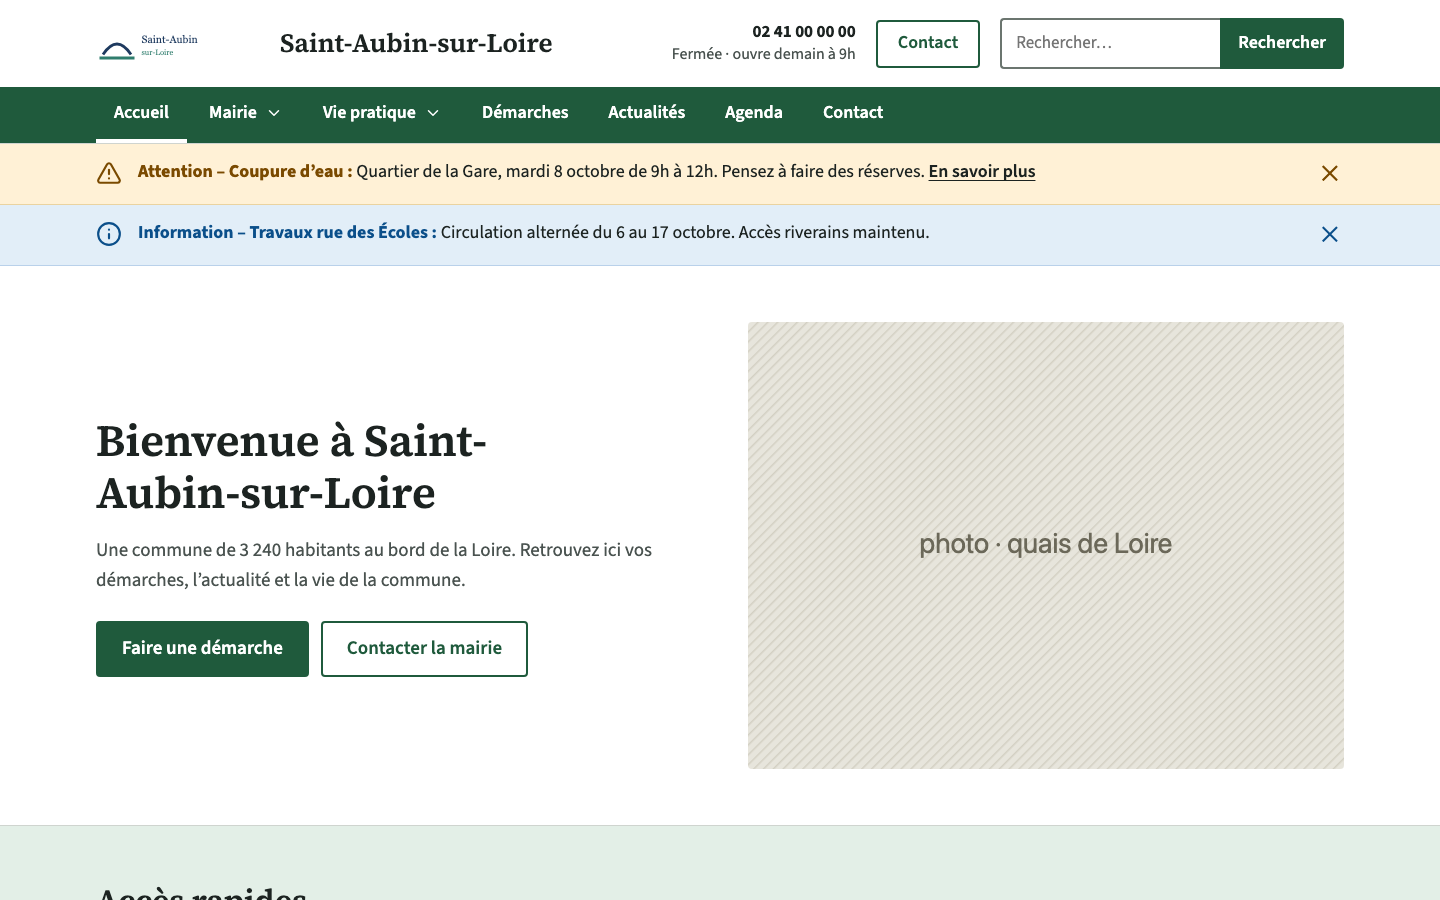
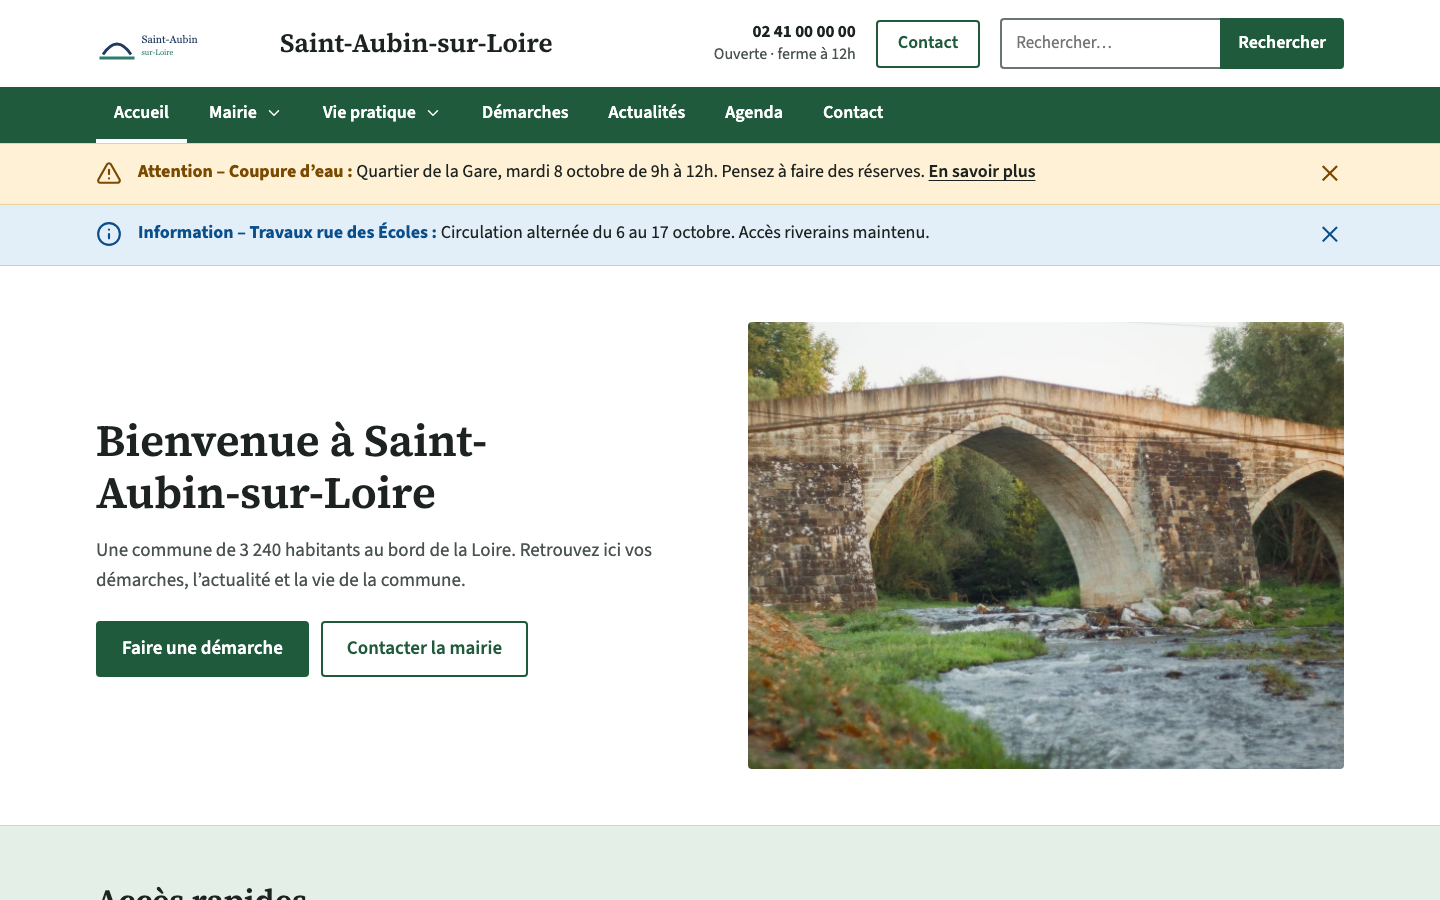
feat(site): vraies photos dans les captures des thèmes de communeo.fr (#315)
Les photos libres de droits des vidéos passent dans packages/fixtures/photos/, partagées par les
captures des thèmes (pages Thèmes, Accueil, Fonctionnalités) et des vidéos ; substituées au moment de
la capture seulement, les fixtures ne changent pas. Horloge fixée un mardi à 10 h : mairie « Ouverte ».

Claude-Session: https://claude.ai/code/session_01Nt9eDdGzjZFkF7eeL1ZaWD

Changed region(s): [[0.5, 0.3422, 0.9375, 0.8711], [0.4688, 0.0311, 0.5938, 0.0622]]

diff --git a/v2/videos/scripts/captures.ts b/v2/videos/scripts/captures.ts
@@ -10,7 +10,7 @@
  *   (apps/admin/e2e/api.ts : commune fictive Saint-Aubin-sur-Loire, données publiques, devis simulés) ;
  * - site : le site de démonstration construit par le renderer à partir des fixtures.
  * Les images de démonstration (emplacements hachurés) sont remplacées par les photos libres de droits de
- * photos/ (voir photos/README.md), sur le site comme dans l'admin : rien ne change dans les fixtures.
+ * packages/fixtures/photos/ (voir son README), sur le site comme dans l'admin : les fixtures ne changent pas.
  *
  * Préalables : admin compilé (`--build` le recompile), builds de démonstration du renderer
  * (`E2E_THEMES=institutionnel,moderne,journal,bourg node e2e/build.mjs` dans apps/renderer).
@@ -104,8 +104,8 @@ async function vraiApercu(page: Page) {
   });
 }
 
-/** Photos libres de droits (photos/<nom>.jpg) à la place des images de démonstration de même nom */
-const PHOTOS = join(VIDEOS, 'photos');
+/** Photos libres de droits (packages/fixtures/photos/<nom>.jpg) à la place des images de démonstration de même nom */
+const PHOTOS = join(RACINE, 'packages/fixtures/photos');
 async function photos(page: Page) {
   // Enregistrée en dernier : prioritaire sur les routes du mock et de l'aperçu
   await page.route(/\/(fixtures|uploads)\/[\w-]+\.(svg|jpe?g|png)(\?.*)?$/, (route) => {

diff --git a/CLAUDE.md b/CLAUDE.md
@@ -21,7 +21,7 @@ pnpm workspaces + Turborepo monorepo (V2 refactor in progress, see board #6):
 - **themes/** — one package per public-site theme (`@communeo/theme-<id>`). `themes/starter` implements the whole contract in plain accessible HTML (template for new themes, reference for renderer tests); `themes/institutionnel` is the reference theme and the renderer's default. Moderne, Journal, Bourg mockups are in `v2/`.
 - **packages/fixtures** — demo commune Saint-Aubin-sur-Loire in Strapi format (`createFixtureLoader({ variant: complete | minimal | empty })`, `FIXTURE_NOW`), goes through the same mappers as production; assets served under `/fixtures`.
 
-- **apps/site/** — communeo.fr, the Communeo marketing site (#315): Astro static pages from the Claude Design mockups (`v2/design_handoff_site_communeo/`), prices from `@communeo/core`, theme screenshots captured from the renderer demo builds, contact form → `POST /api/prospect-contact` (public, rate-limited, e-mailed to `SIGNUP_NOTIFY_EMAIL`, nothing stored). Content still to provide is marked with `<AFournir>` and listed by `pnpm --filter @communeo/site a-fournir`. Deployed on Netlify (base directory `apps/site`).
+- **apps/site/** — communeo.fr, the Communeo marketing site (#315): Astro static pages from the Claude Design mockups (`v2/design_handoff_site_communeo/`), prices from `@communeo/core`, theme screenshots captured from the renderer demo builds (`captures:themes`, with the real photos of `packages/fixtures/photos/` instead of the hatched placeholders), contact form → `POST /api/prospect-contact` (public, rate-limited, e-mailed to `SIGNUP_NOTIFY_EMAIL`, nothing stored). Content still to provide is marked with `<AFournir>` and listed by `pnpm --filter @communeo/site a-fournir`. Deployed on Netlify (base directory `apps/site`).
 
 - **v2/videos/** — communeo.fr videos (V1, V2, V3, V5) in Remotion, a production tool never deployed: one `script.ts` per video is the single source (scenes, `.vtt`, transcription), timings recalibrated on the voice (ElevenLabs or a dropped `voix.mp3`), captures taken with Playwright on the admin build + its test API mock and on the renderer demo builds (never production). `pnpm videos:captures|voix|recaler|render|planche <id>`; see v2/videos/README.md.
 

diff --git a/packages/fixtures/photos/README.md b/packages/fixtures/photos/README.md
@@ -1,9 +1,11 @@
-# Photos des vidéos
+# Photos des supports de communication
 
-Substituées aux emplacements hachurés du site de démonstration **au moment des captures seulement**
-(`scripts/captures.ts`) : les fixtures partagées (tests, miniatures des thèmes) ne changent pas. Une
-photo remplace l'image de même nom servie sous `/fixtures/<nom>.svg` (site) ou `/uploads/<nom>.jpg`
-(médiathèque de l'admin).
+Vraies photos à la place des emplacements hachurés de la commune de démonstration, **au moment des
+captures seulement** : captures des thèmes de communeo.fr (`apps/site/scripts/captures-themes.mjs`) et des
+vidéos (`v2/videos/scripts/captures.ts`). Les fixtures servies par le renderer (tests, `theme:dev`,
+miniatures des thèmes) restent des SVG légers. Une photo remplace l'image de même nom servie sous
+`/fixtures/<nom>.svg` (site) ou `/uploads/<nom>.jpg` (médiathèque de l'admin) ; une image sans photo
+garde son emplacement.
 
 Source : [Pexels](https://www.pexels.com), [licence Pexels](https://www.pexels.com/license/) (usage
 commercial gratuit, attribution non requise). Recadrées au format de l'emplacement, métadonnées retirées.
